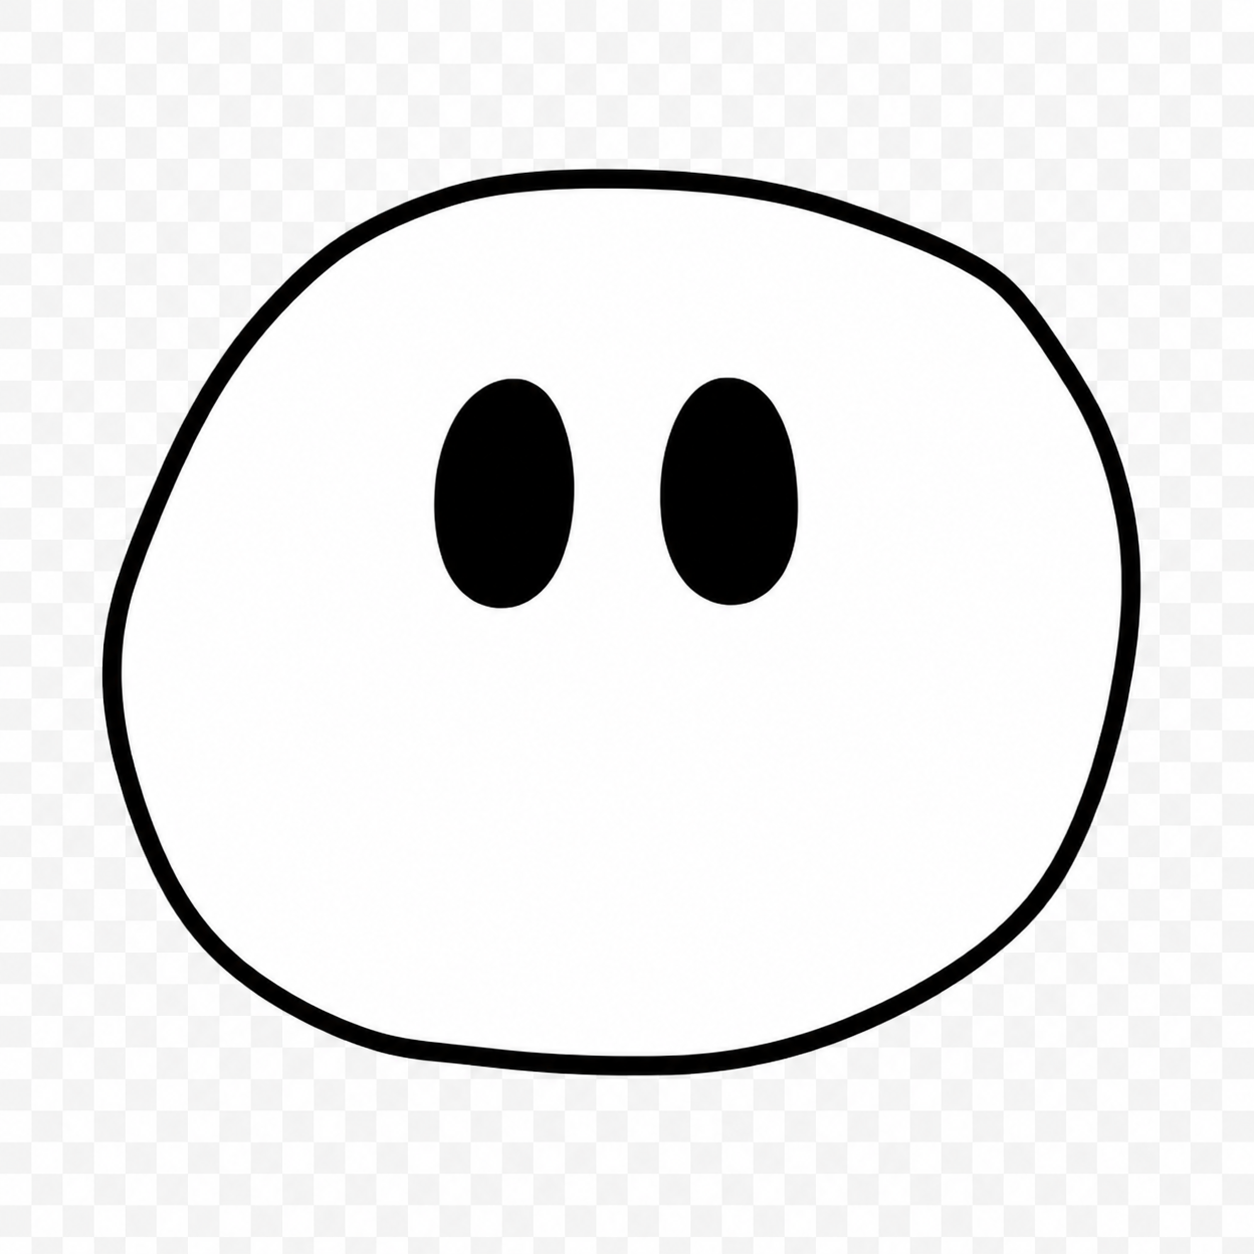
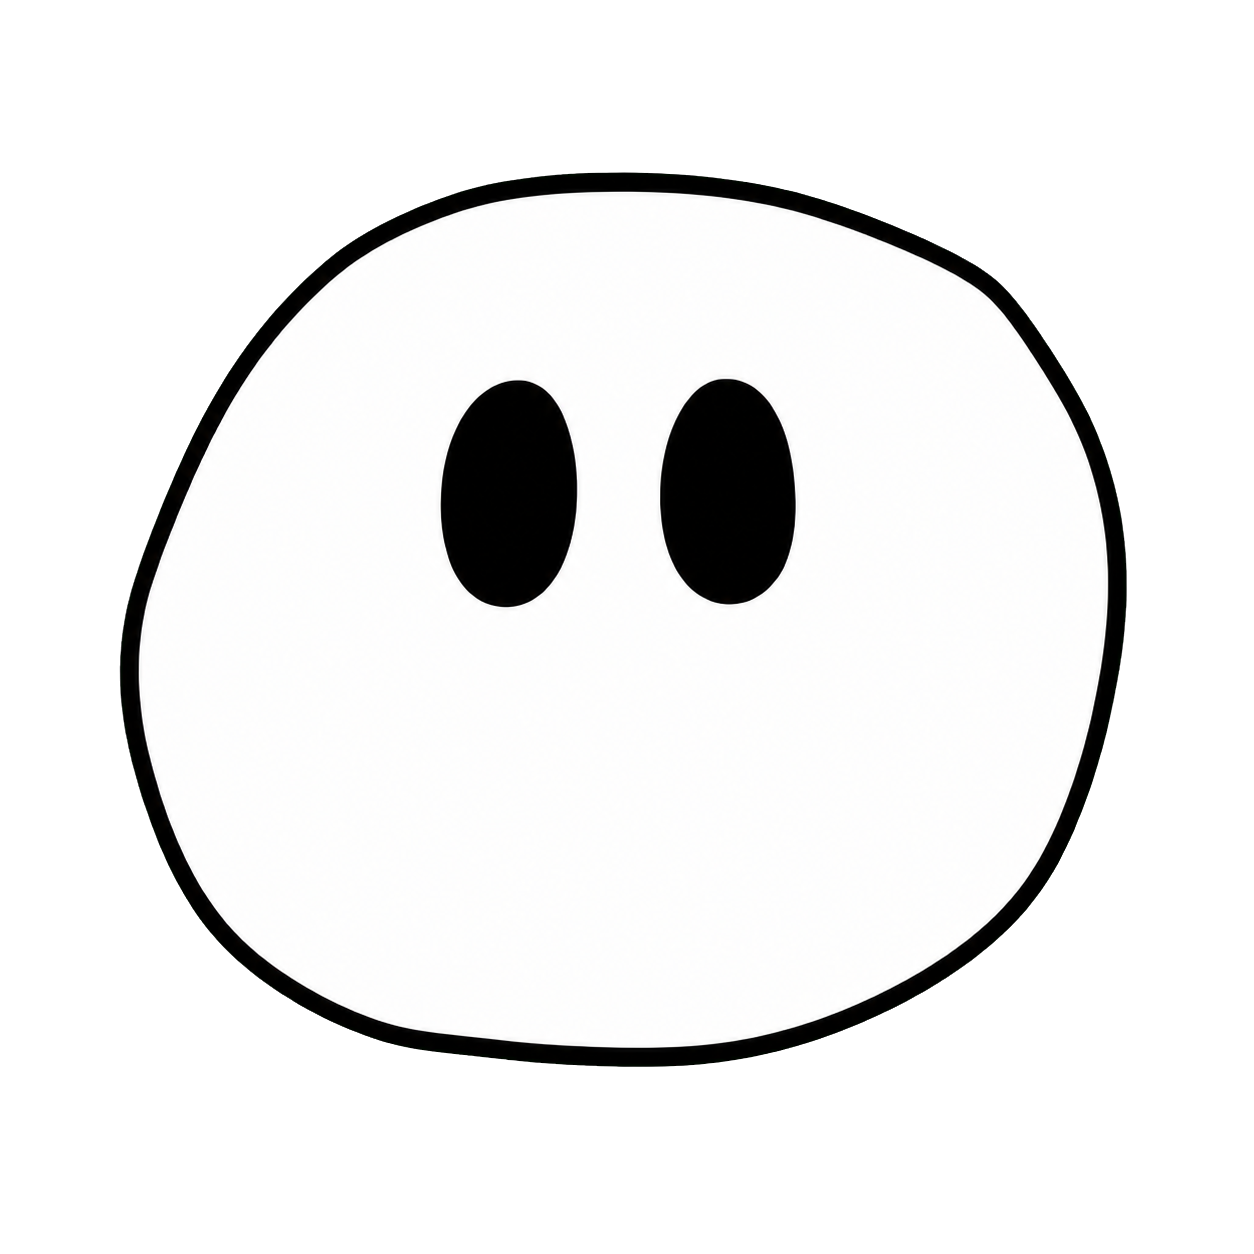
Fix front header and message layout

diff --git a/styles.css b/styles.css
@@ -73,6 +73,49 @@ button:disabled {
   justify-content: space-between;
 }
 
+.front-title {
+  display: flex;
+  align-items: center;
+  gap: 8px;
+  min-width: 0;
+  flex: 0 1 220px;
+  color: #56657a;
+}
+
+.front-title-copy {
+  display: block;
+  min-width: 0;
+}
+
+.front-title strong,
+.front-title small {
+  display: block;
+}
+
+.front-title strong {
+  overflow: hidden;
+  color: var(--blue-deep);
+  font-size: 11px;
+  font-weight: 900;
+  letter-spacing: 0.06em;
+  line-height: 1.2;
+  text-overflow: ellipsis;
+  white-space: nowrap;
+}
+
+.front-title small {
+  margin-top: 3px;
+  color: var(--muted);
+  font-size: 8px;
+  font-weight: 900;
+  letter-spacing: 0.08em;
+  line-height: 1;
+}
+
+.front-title small b {
+  color: var(--blue-deep);
+}
+
 .topbar-center,
 .topbar-actions,
 .simulation-controls,
@@ -308,28 +351,6 @@ button:disabled {
   width: 100%;
   height: 100%;
   touch-action: none;
-}
-
-.map-caption {
-  position: absolute;
-  top: 18px;
-  left: 26px;
-  display: flex;
-  align-items: center;
-  gap: 8px;
-  padding: 8px 11px;
-  color: #56657a;
-  border: 1px solid rgba(76, 99, 131, 0.15);
-  border-radius: 9px;
-  background: rgba(255, 255, 255, 0.72);
-  box-shadow: 0 8px 20px rgba(49, 70, 101, 0.08);
-  font-size: 10px;
-  font-weight: 800;
-  letter-spacing: 0.08em;
-}
-
-.map-caption strong {
-  color: var(--blue-deep);
 }
 
 .special-move-panel {
@@ -759,8 +780,8 @@ button:disabled {
 .toast {
   position: absolute;
   top: 20px;
-  left: 50%;
-  max-width: min(420px, calc(100% - 40px));
+  left: 26px;
+  width: min(360px, calc(50% - 42px));
   padding: 10px 15px;
   color: #fff;
   border-radius: 10px;
@@ -769,14 +790,14 @@ button:disabled {
   font-size: 11px;
   font-weight: 800;
   opacity: 0;
-  transform: translate(-50%, -12px);
+  transform: translate(0, -12px);
   transition: opacity 180ms ease, transform 180ms ease;
   pointer-events: none;
 }
 
 .toast.is-visible {
   opacity: 1;
-  transform: translate(-50%, 0);
+  transform: translate(0, 0);
 }
 
 .event-feed {
@@ -1658,13 +1679,6 @@ button:disabled {
     text-shadow: 0 1px 2px rgba(23, 32, 52, 0.5);
   }
 
-  .map-caption {
-    top: 12px;
-    left: 13px;
-    padding: 6px 8px;
-    font-size: 8px;
-  }
-
   .invasion-alert {
     top: 48px;
     left: 13px;
@@ -1837,6 +1851,28 @@ button:disabled {
     top: 13px;
     right: 13px;
     width: min(200px, calc(100% - 26px));
+  }
+
+  .front-title {
+    flex-basis: 128px;
+    gap: 6px;
+  }
+
+  .front-title strong {
+    font-size: 9px;
+  }
+
+  .front-title small {
+    margin-top: 2px;
+    font-size: 7px;
+  }
+
+  .toast {
+    top: 13px;
+    left: 13px;
+    width: min(175px, calc(50% - 30px));
+    padding: 8px 10px;
+    font-size: 9px;
   }
 
   .control-bar {

diff --git a/index.html b/index.html
@@ -20,6 +20,14 @@
   <body>
     <main class="game-shell" id="gameShell">
       <header class="topbar">
+        <div class="front-title" aria-label="戦線情報">
+          <span class="caption-dot" aria-hidden="true"></span>
+          <span class="front-title-copy">
+            <strong id="mapName"></strong>
+            <small>DAY <b id="dayValue">01</b></small>
+          </span>
+        </div>
+
         <div class="topbar-center">
           <div class="mission-meter" aria-label="作戦進行度">
             <span class="meter-segment is-filled"></span>
@@ -56,11 +64,6 @@
 
       <section class="game-stage" id="gameStage" aria-label="戦場マップ">
         <canvas id="mapCanvas" aria-label="リアルタイム戦場マップ"></canvas>
-
-        <div class="map-caption">
-          <span class="caption-dot"></span>
-          <span><span id="mapName"></span> / DAY <strong id="dayValue">01</strong></span>
-        </div>
 
         <div class="invasion-alert" id="invasionAlert" aria-live="assertive" aria-atomic="true">
           <span class="invasion-alert-icon" aria-hidden="true">!</span>

diff --git a/src/config/world-map.js b/src/config/world-map.js
@@ -212,7 +212,7 @@ export const WORLD_MAP = {
   frontMaps: {
     "korea-front": {
       id: "korea-front",
-      name: "Korean Peninsula Front",
+      name: "朝鮮半島戦線",
       bounds: { west: 124, east: 132, south: 32, north: 44 },
       interactionMinDistance: 0.045,
       interactionHitRadius: 0.018,

diff --git a/sw.js b/sw.js
@@ -1,4 +1,4 @@
-const CACHE_NAME = "countryfronts-shell-v25";
+const CACHE_NAME = "countryfronts-shell-v26";
 
 const APP_SHELL = [
   "./",
